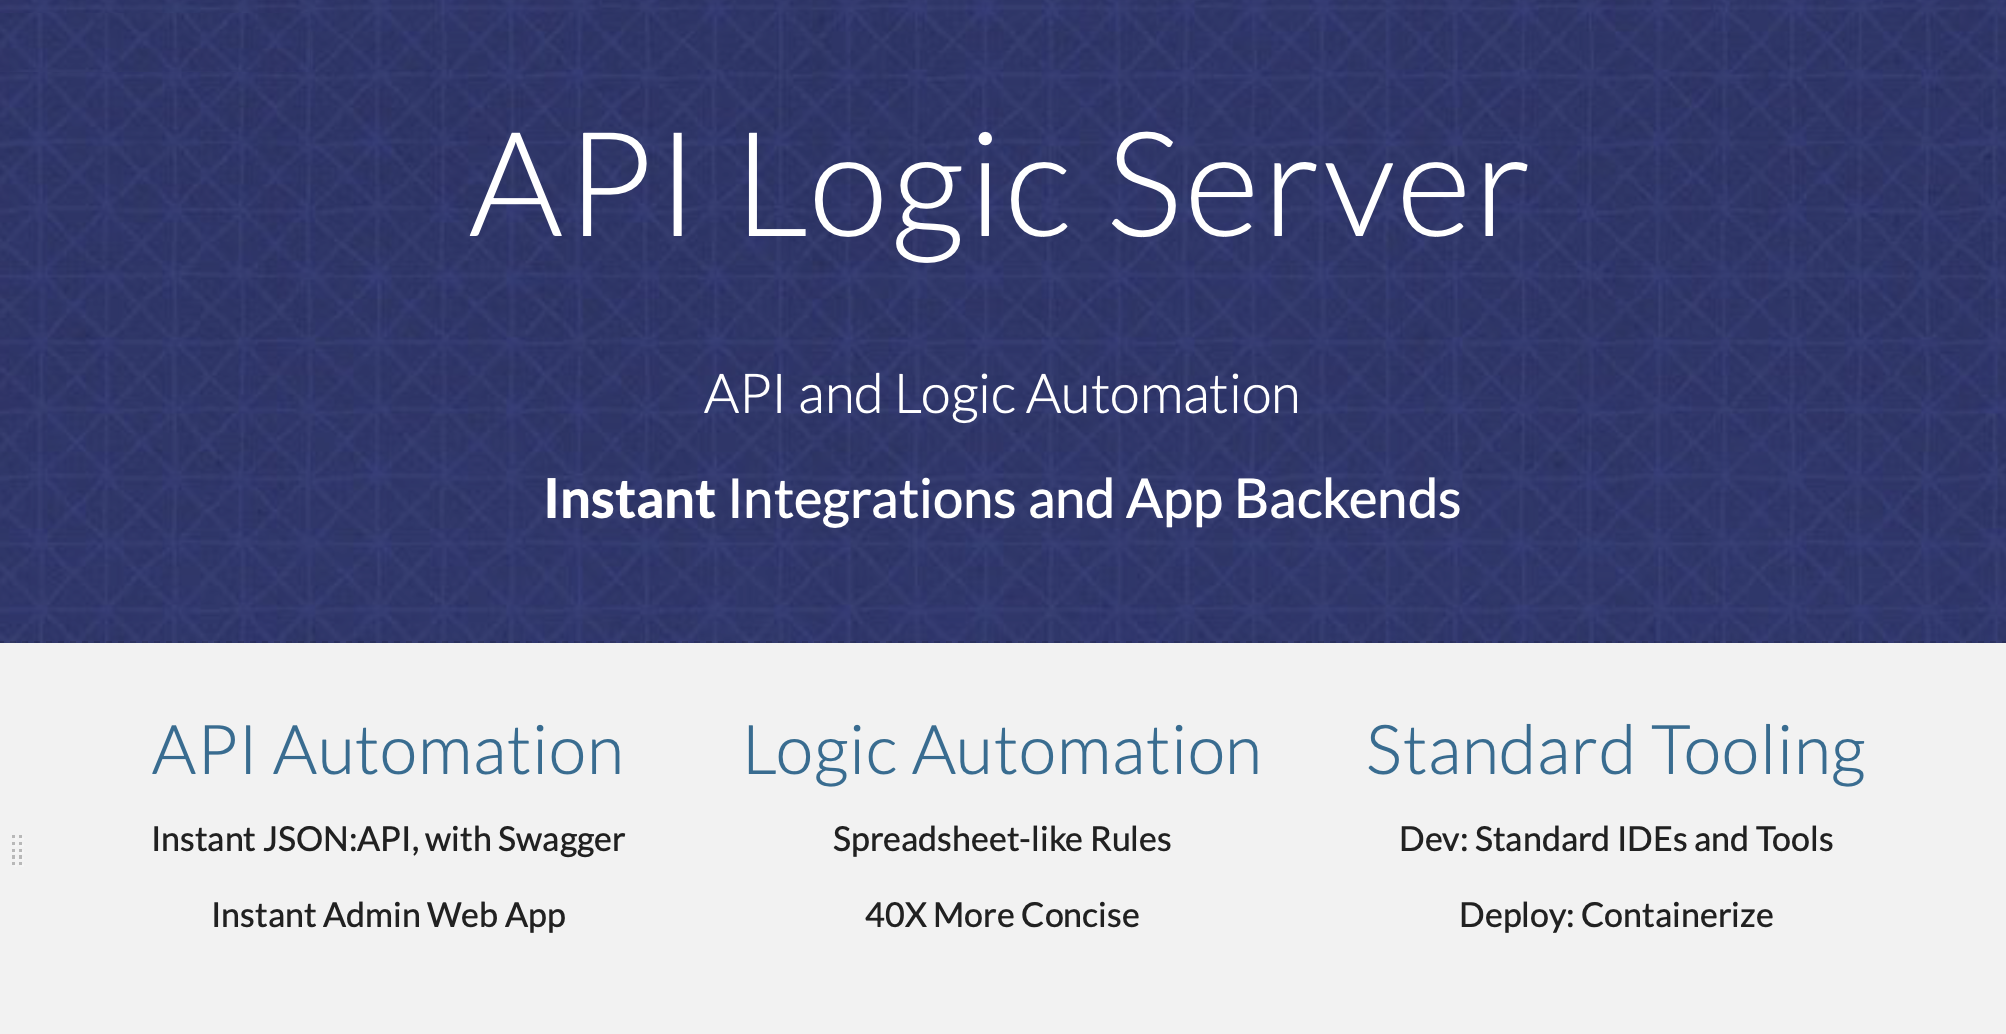
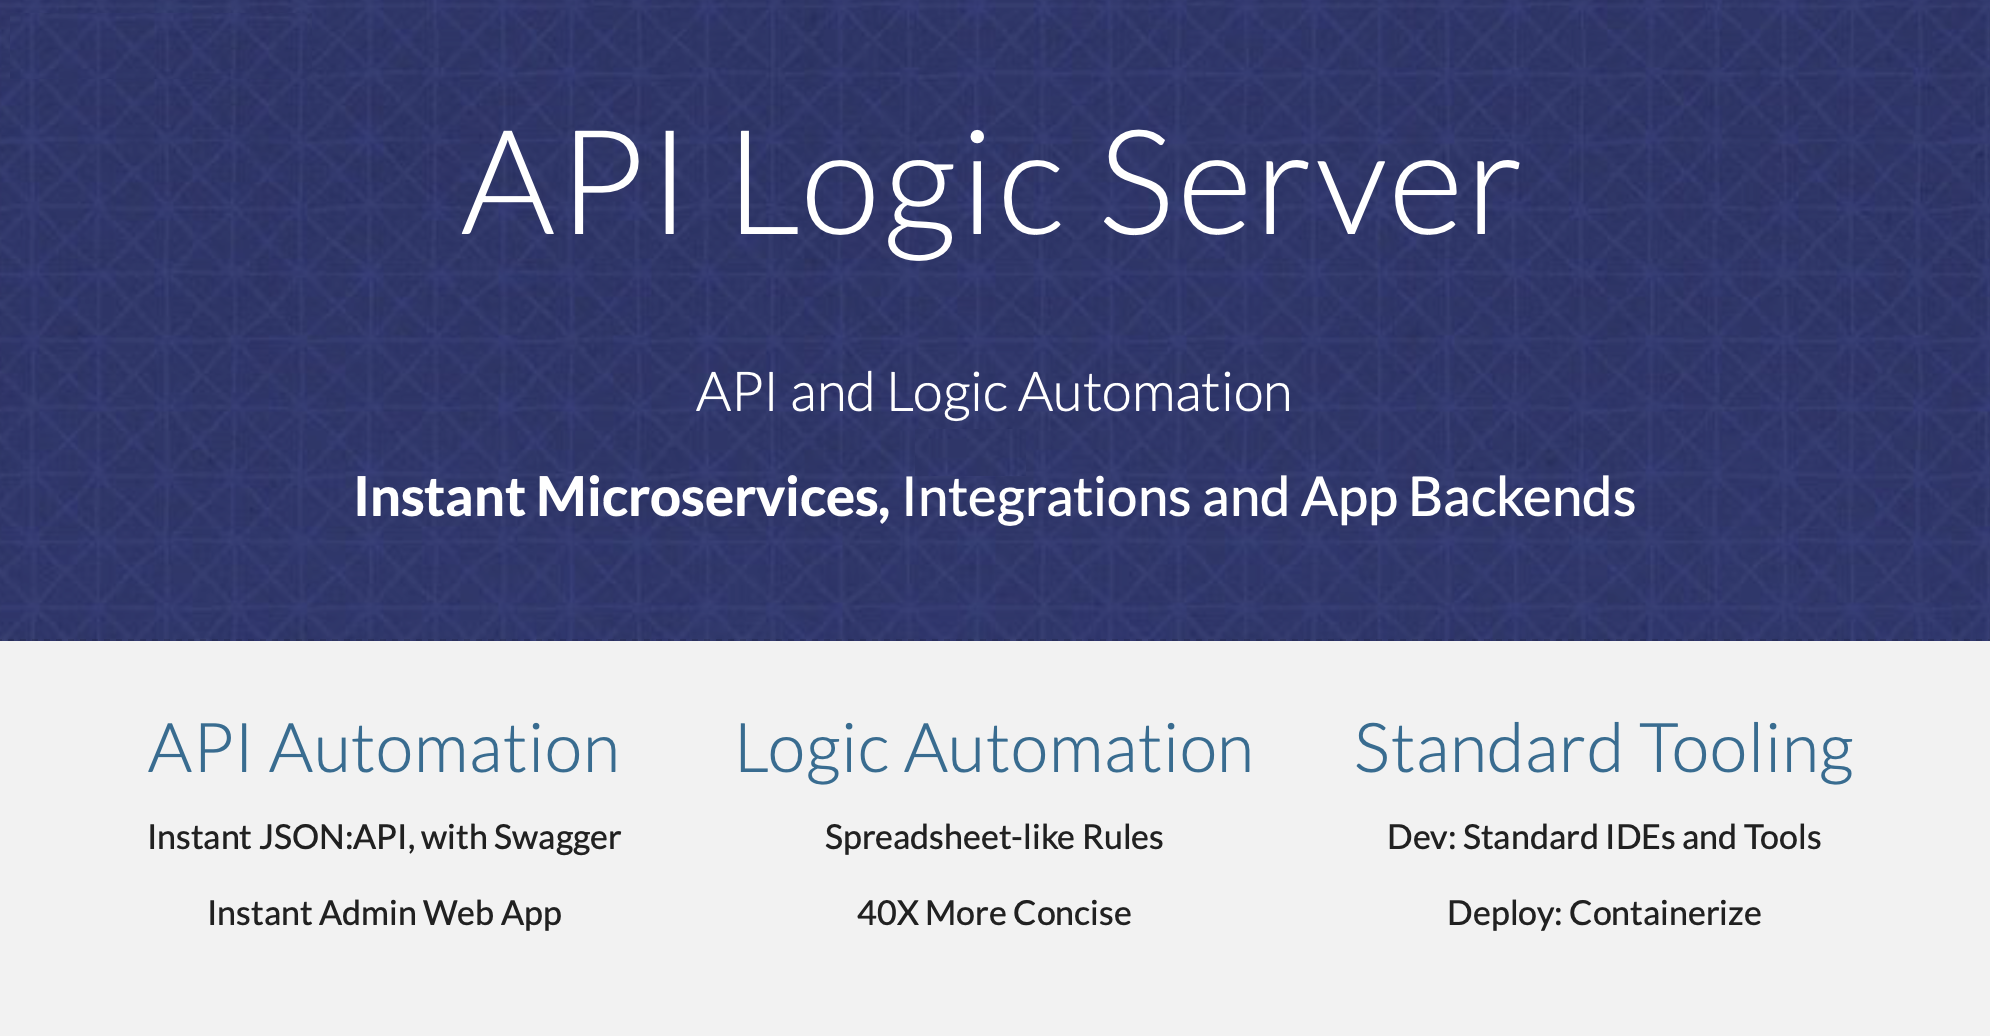
usvcs on hero

diff --git a/docs/Sample-AI.md b/docs/Sample-AI.md
@@ -209,9 +209,11 @@ And:
 
 !!! pied-piper "Application Integration"
 
-    Send new Orders to Shipping using a Kafka message.
+    1. Provide read access for internal applications.
 
-    Enable B2B partners to place orders with a custom API.
+    2. Enable B2B partners to place orders with a custom API.
+
+    3. Send new Orders to Shipping using a Kafka message.
 &nbsp;
 
 As above, we speed things up with the following procedure:

diff --git a/docs/index.md b/docs/index.md
@@ -185,7 +185,7 @@ Here's an [article, here](https://dzone.com/articles/instant-app-backends-with-a
 
 <details markdown>
 
-<summary>1 day projects with AI-Driven Schema Automation</summary>
+<summary>Instant Microservices with AI-Driven Schema Automation</summary>
 
 &nbsp;
 
